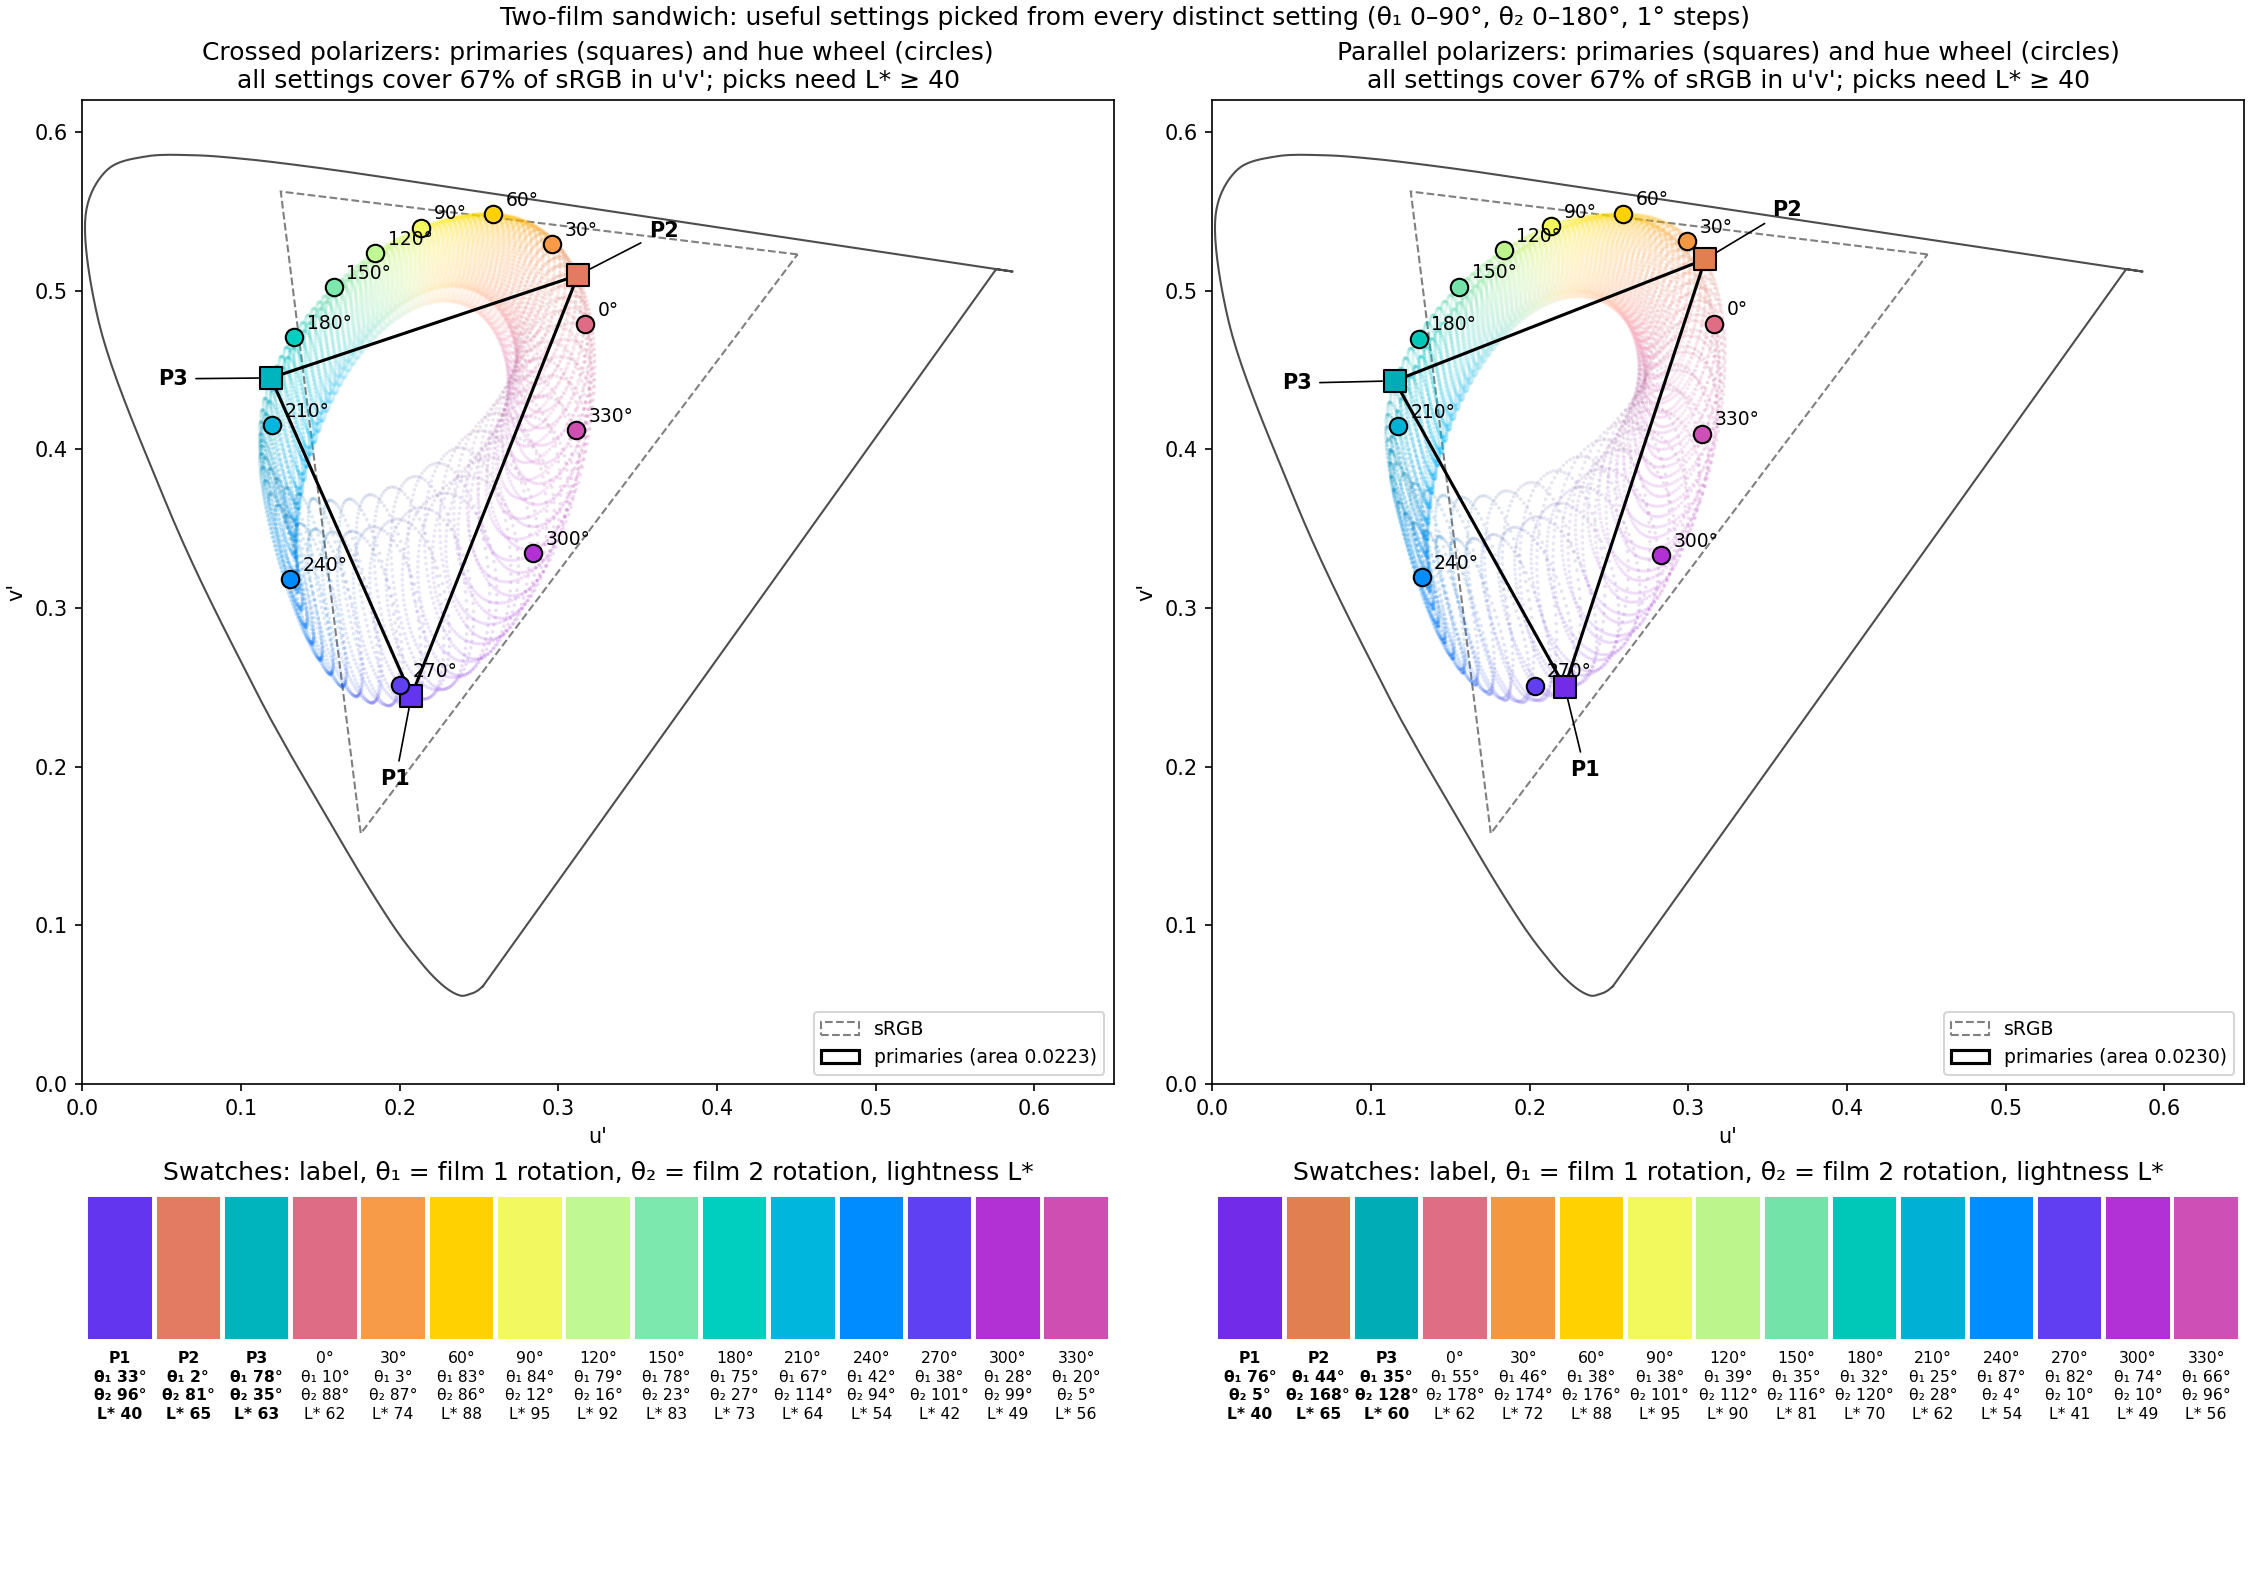
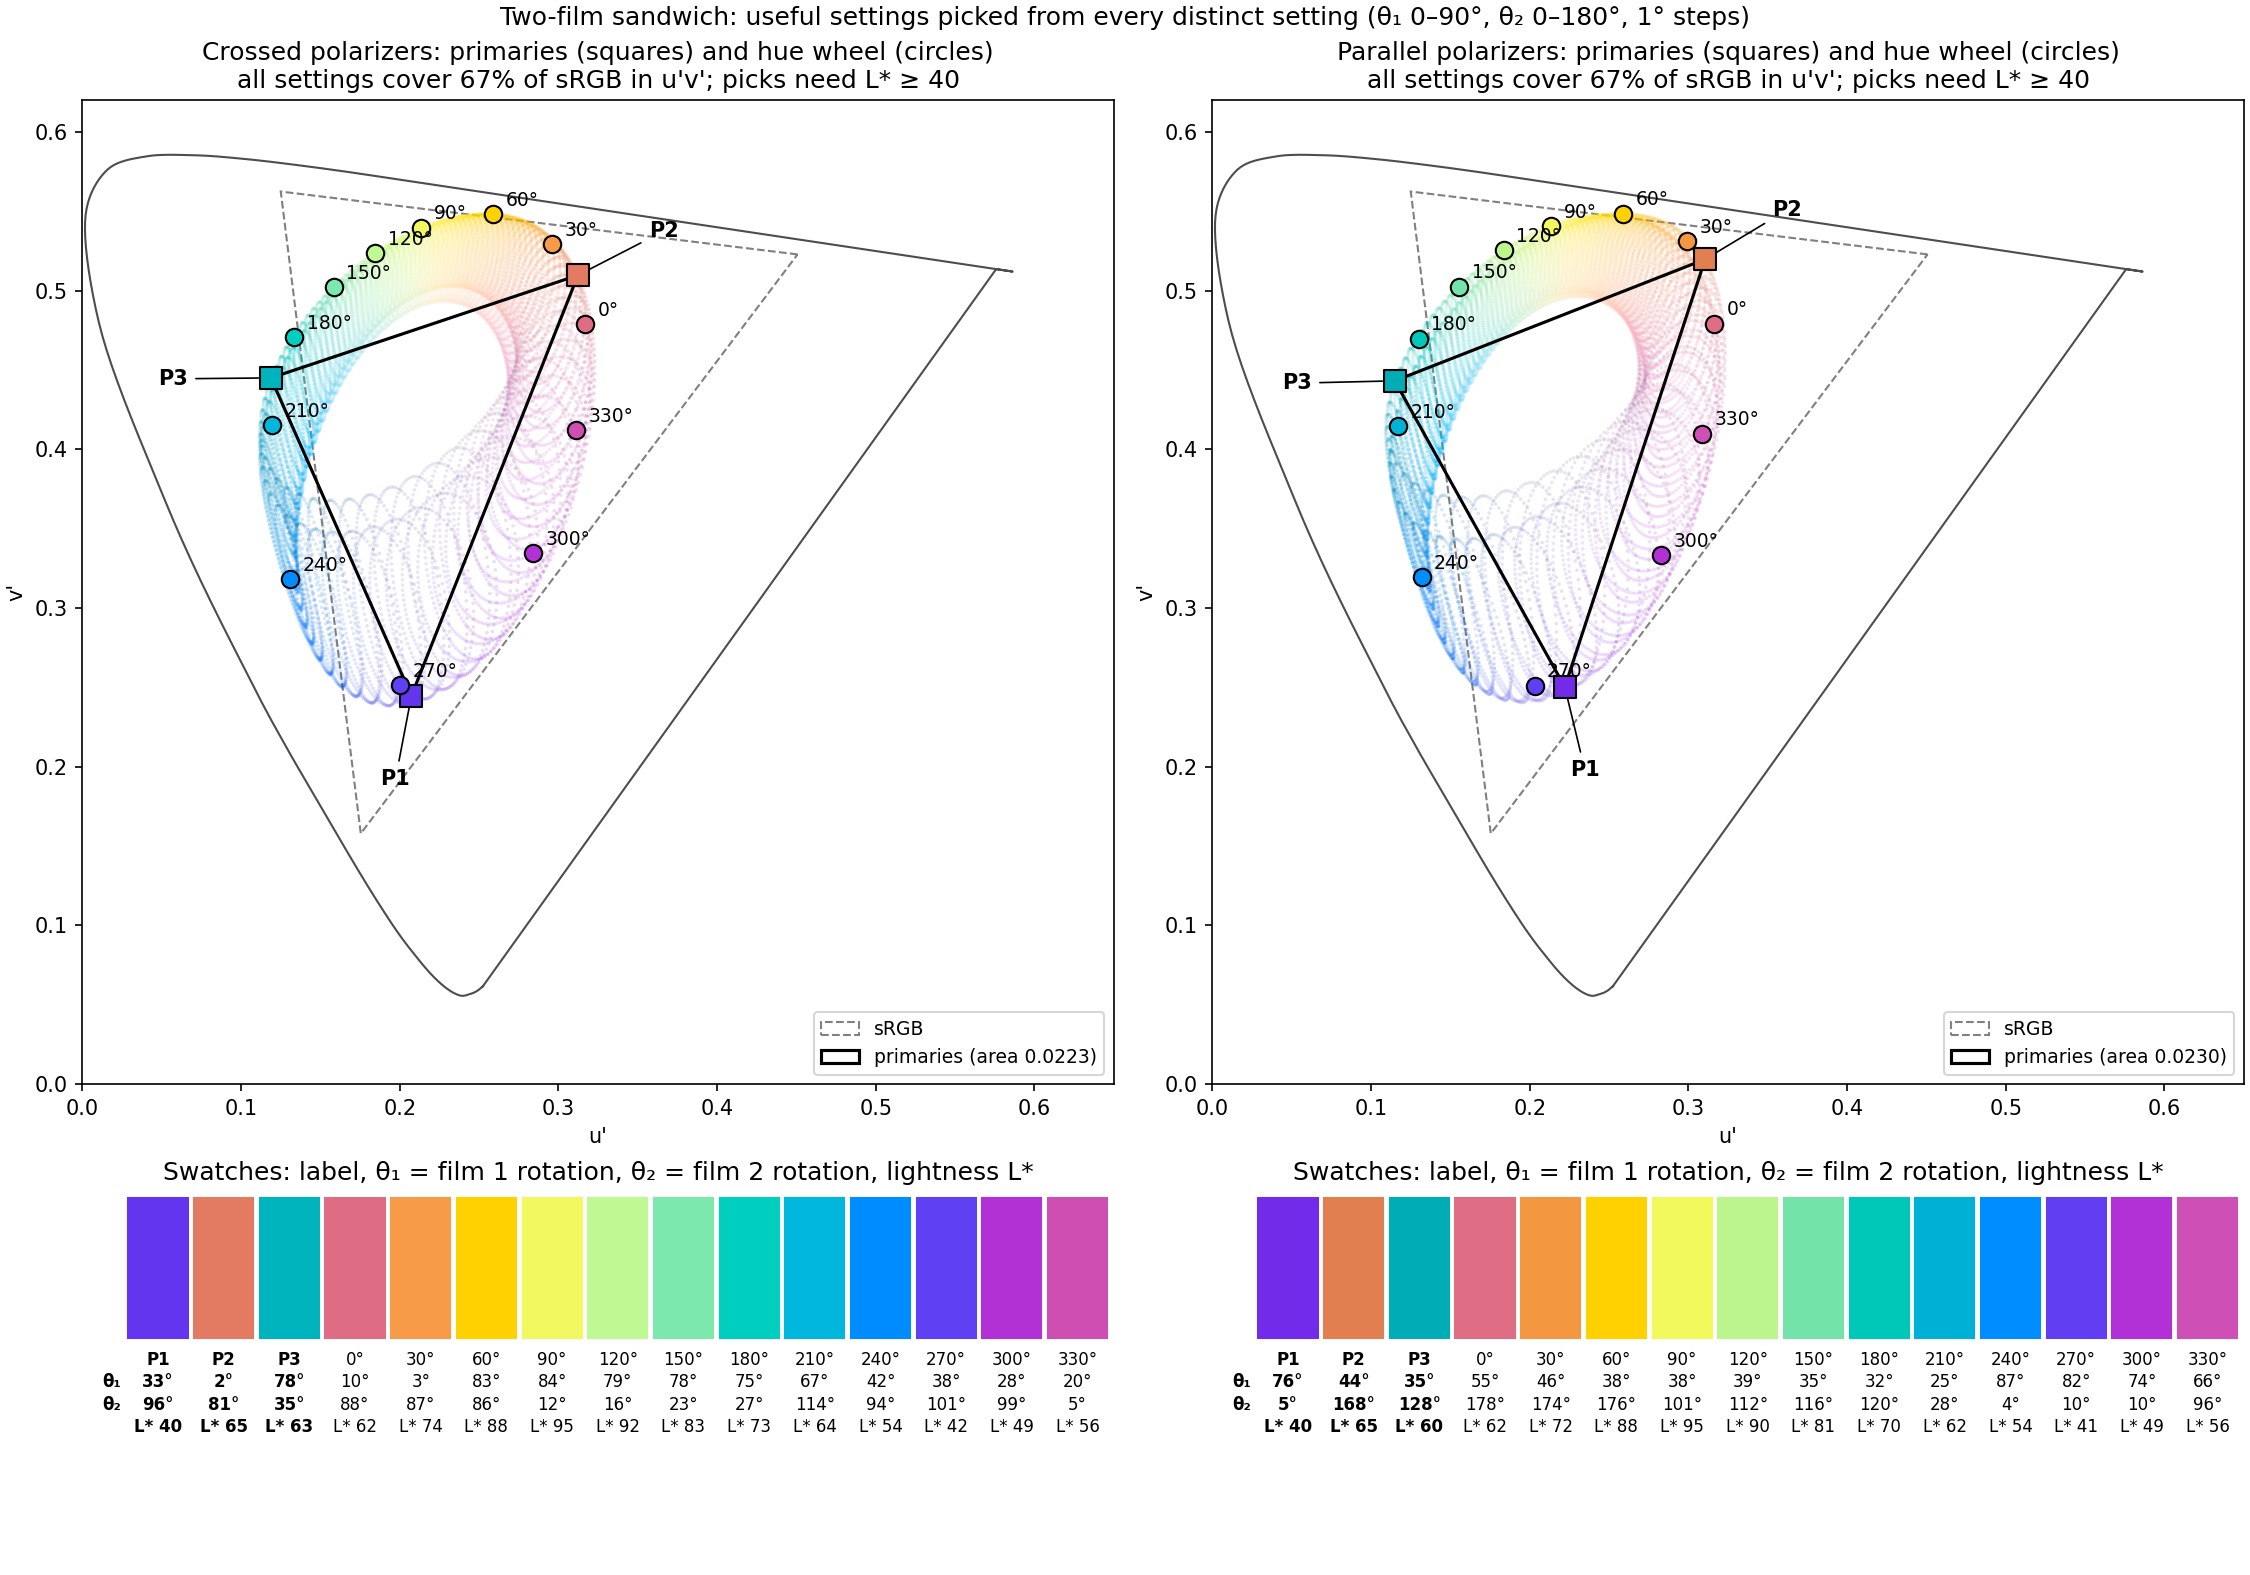
Show θ₁/θ₂ once as row labels beside the swatch strips
Instead of repeating θ₁ and θ₂ in every swatch, label the film 1 and
film 2 angle rows once, immediately left of each strip, so each swatch
shows only the numbers. Swatch text is back to size 8.

Changed region(s): [[0.5289, 0.7467, 0.9956, 0.9022], [0.0311, 0.7467, 0.4978, 0.9022]]

diff --git a/Run_Files/WideGamut/Multi_Twist_Run_TwoFilm_ColorPicker.py b/Run_Files/WideGamut/Multi_Twist_Run_TwoFilm_ColorPicker.py
@@ -105,13 +105,15 @@ for column, configuration in enumerate(["crossed", "parallel"]):
         if "_ij" in row:
             i, j = row["_ij"]
             ax.add_patch(plt.Rectangle((n, 0.45), 0.9, 0.55, color=display[i, j]))
-            text = f"{row['label']}\nθ₁ {row['rotation_1_deg']:.0f}°\nθ₂ {row['rotation_2_deg']:.0f}°\nL* {row['L_star']:.0f}"
+            text = f"{row['label']}\n{row['rotation_1_deg']:.0f}°\n{row['rotation_2_deg']:.0f}°\nL* {row['L_star']:.0f}"
         else:
             ax.add_patch(plt.Rectangle((n, 0.45), 0.9, 0.55, fill=False, hatch="///", color="0.6"))
             text = f"{row['label']}\nnot\nreachable\n"
-        ax.text(n + 0.45, 0.4, text, ha="center", va="top", fontsize=7.5, linespacing=1.3,
+        ax.text(n + 0.45, 0.4, text, ha="center", va="top", fontsize=8, linespacing=1.3,
                 fontweight="bold" if row["kind"] == "primary" else "normal")
-    ax.set(xlim=(-0.1, len(strip)), ylim=(-0.45, 1.02), title="Swatches: label, θ₁ = film 1 rotation, θ₂ = film 2 rotation, lightness L*")
+    # Row labels once, to the left of the strip, lined up with the film 1 and film 2 rows of every swatch
+    ax.text(-0.12, 0.4, "\nθ₁\nθ₂\n", ha="right", va="top", fontsize=8, linespacing=1.3, fontweight="bold")
+    ax.set(xlim=(-0.7, len(strip)), ylim=(-0.45, 1.02), title="Swatches: label, θ₁ = film 1 rotation, θ₂ = film 2 rotation, lightness L*")
     ax.axis("off")
 
     print(f"\n{configuration.upper()} polarizers: primaries triangle area {primaries_area:.4f} in u'v'")
